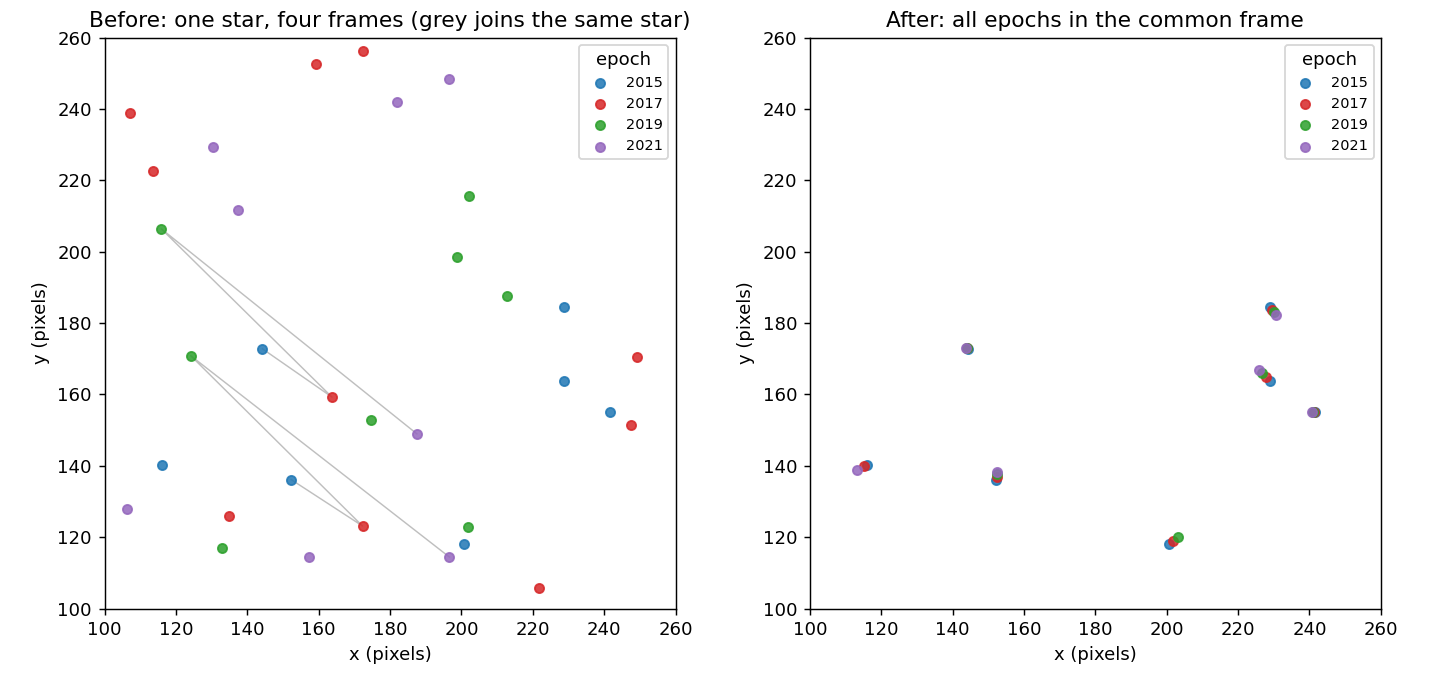
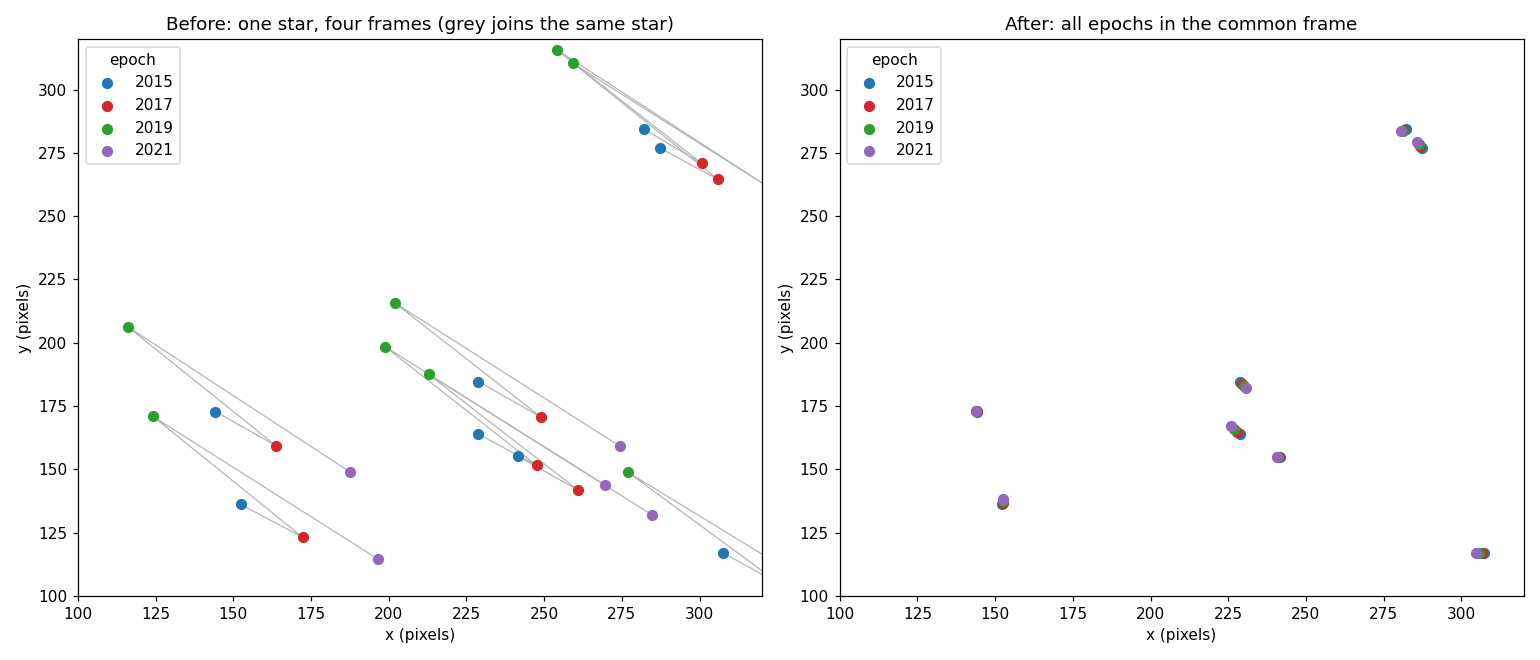
Show the plotting code in the alignment example, escape absolute_sigma in math
The example displayed three figures without the code that draws them, so the
one page that promises "everything runs as-is" could not actually be run to the
end. Each .. image:: now follows the block that produces it.

The before/after panel is the one that needed explaining rather than just
listing: ref_table keeps each list's untransformed positions in x_orig/y_orig
alongside the transformed x/y, so the comparison is two columns of the same
table, not a second pass over the input lists. It zooms into a 220-pixel corner
because at full field scale the inter-epoch offsets are smaller than the
spacing between stars, which makes the point invisible.

Verified by extracting every python block from the page in order and running
them as one script: all eight execute clean and reproduce the three printed
figures the page claims -- 254 stars / 144 in all four epochs, 36.7 / 38.0 mpix
residual scatter, vx to 19.3 mpix/yr.

The committed PNGs are regenerated from exactly that code and are now
byte-identical to what it produces, checked by sha256 rather than by eye, so
the figures cannot drift from the listing without the check noticing. The
before/after window widened from the original figure's (100, 260) to (100, 320)
so that eight stars fall inside it rather than five.

The absolute_sigma cases block wrote \texttt{absolute_sigma=True}. \texttt
typesets its argument in text mode, where a bare _ is a subscript operator with
[…]

diff --git a/docs/examples/alignment_example.rst b/docs/examples/alignment_example.rst
@@ -126,6 +126,41 @@ left, each star is measured at four visibly different places, because each
 epoch has its own coordinate system; grey lines join the four measurements of
 a single star. On the right, the same stars after transformation.
 
+``ref_table['x_orig']``/``['y_orig']`` keep each list's *untransformed*
+positions, so plotting them against ``['x']``/``['y']`` is the before-and-after
+directly. Both are ``(N_stars, N_lists)``, one column per epoch. We zoom into a
+corner of the field, since at full scale the offsets are smaller than the point
+spacing:
+
+.. code-block:: python
+
+   import matplotlib.pyplot as plt
+
+   COLORS = ['C0', 'C3', 'C2', 'C4']
+   WIN = (100, 320)                      # a zoomed corner of the 1000-pixel field
+
+   xr, yr = np.asarray(ref['x_orig']), np.asarray(ref['y_orig'])
+   xt, yt = np.asarray(ref['x']), np.asarray(ref['y'])
+   good = np.asarray(ref['n_detect']) == len(YEARS)
+   sel = (good
+          & (np.asarray(ref['x0']) > WIN[0]) & (np.asarray(ref['x0']) < WIN[1])
+          & (np.asarray(ref['y0']) > WIN[0]) & (np.asarray(ref['y0']) < WIN[1]))
+
+   fig, (a1, a2) = plt.subplots(1, 2, figsize=(14, 6))
+   panels = [(a1, xr[sel], yr[sel], 'Before: one star, four frames (grey joins the same star)'),
+             (a2, xt[sel], yt[sel], 'After: all epochs in the common frame')]
+   for ax, X, Y, title in panels:
+       if ax is a1:                       # join each star's four measurements
+           for i in range(X.shape[0]):
+               ax.plot(X[i], Y[i], '-', color='0.7', lw=0.8, zorder=1)
+       for j, yr_lab in enumerate(YEARS):
+           ax.scatter(X[:, j], Y[:, j], s=40, color=COLORS[j],
+                      label=f'{yr_lab:.0f}', zorder=2)
+       ax.set_xlim(*WIN); ax.set_ylim(*WIN)
+       ax.set_xlabel('x (pixels)'); ax.set_ylabel('y (pixels)')
+       ax.set_title(title); ax.legend(title='epoch')
+   plt.tight_layout()
+
 .. image:: ../_static/align_before_after.png
    :alt: Star positions before and after alignment
    :align: center
@@ -148,6 +183,19 @@ measured positions should leave nothing but noise:
 .. code-block:: text
 
    residual scatter: 36.7 / 38.0 mpix
+
+.. code-block:: python
+
+   fig, ax = plt.subplots(figsize=(8, 5))
+   bins = np.linspace(min(dx.min(), dy.min()), max(dx.max(), dy.max()), 60)
+   ax.hist(dx.ravel(), bins=bins, alpha=0.7, color='steelblue', label='x')
+   ax.hist(dy.ravel(), bins=bins, alpha=0.7, color='indianred', label='y')
+   ax.axvline(0, color='k', ls='--', lw=1)
+   ax.set_xlabel('residual from fitted motion (milli-pixels)')
+   ax.set_ylabel('count')
+   ax.set_title(f'Post-alignment residuals  (injected noise {ERR*1000:.0f} mpix)')
+   ax.legend()
+   plt.tight_layout()
 
 .. image:: ../_static/align_residuals.png
    :alt: Post-alignment residual distribution
@@ -173,6 +221,21 @@ that the alignment is right:
 .. code-block:: text
 
    vx recovered to 19.3 mpix/yr
+
+.. code-block:: python
+
+   fig, axes = plt.subplots(1, 2, figsize=(14, 6))
+   for ax, v_true, v_fit, lab in [
+           (axes[0], vx[idx[ok]], np.asarray(ref['vx'])[ok], 'v_x'),
+           (axes[1], vy[idx[ok]], np.asarray(ref['vy'])[ok], 'v_y')]:
+       ax.scatter(v_true, v_fit, s=25, alpha=0.7)
+       lo, hi = min(v_true.min(), v_fit.min()), max(v_true.max(), v_fit.max())
+       ax.plot([lo, hi], [lo, hi], 'k--', lw=1)        # 1:1, not a fit
+       ax.set_xlabel(f'true {lab} (pix/yr)')
+       ax.set_ylabel(f'recovered {lab} (pix/yr)')
+       ax.set_title(f'{lab}:  scatter = {np.std(v_fit - v_true)*1000:.1f} mpix/yr')
+       ax.set_aspect('equal', adjustable='box')
+   plt.tight_layout()
 
 .. image:: ../_static/align_proper_motion.png
    :alt: Recovered versus true proper motion

diff --git a/docs/motion_models.rst b/docs/motion_models.rst
@@ -253,8 +253,8 @@ residuals, and :math:`\nu` the degrees of freedom
 
    \sigma_p =
    \begin{cases}
-     \hat{\sigma}_p, & \texttt{absolute_sigma=True (default)} \\[4pt]
-     \hat{\sigma}_p \sqrt{\chi^2 / \nu}, & \texttt{absolute_sigma=False}
+     \hat{\sigma}_p, & \texttt{absolute\_sigma=True (default)} \\[4pt]
+     \hat{\sigma}_p \sqrt{\chi^2 / \nu}, & \texttt{absolute\_sigma=False}
    \end{cases}
 
 ``True`` takes your input errors at face value and propagates them. ``False``
